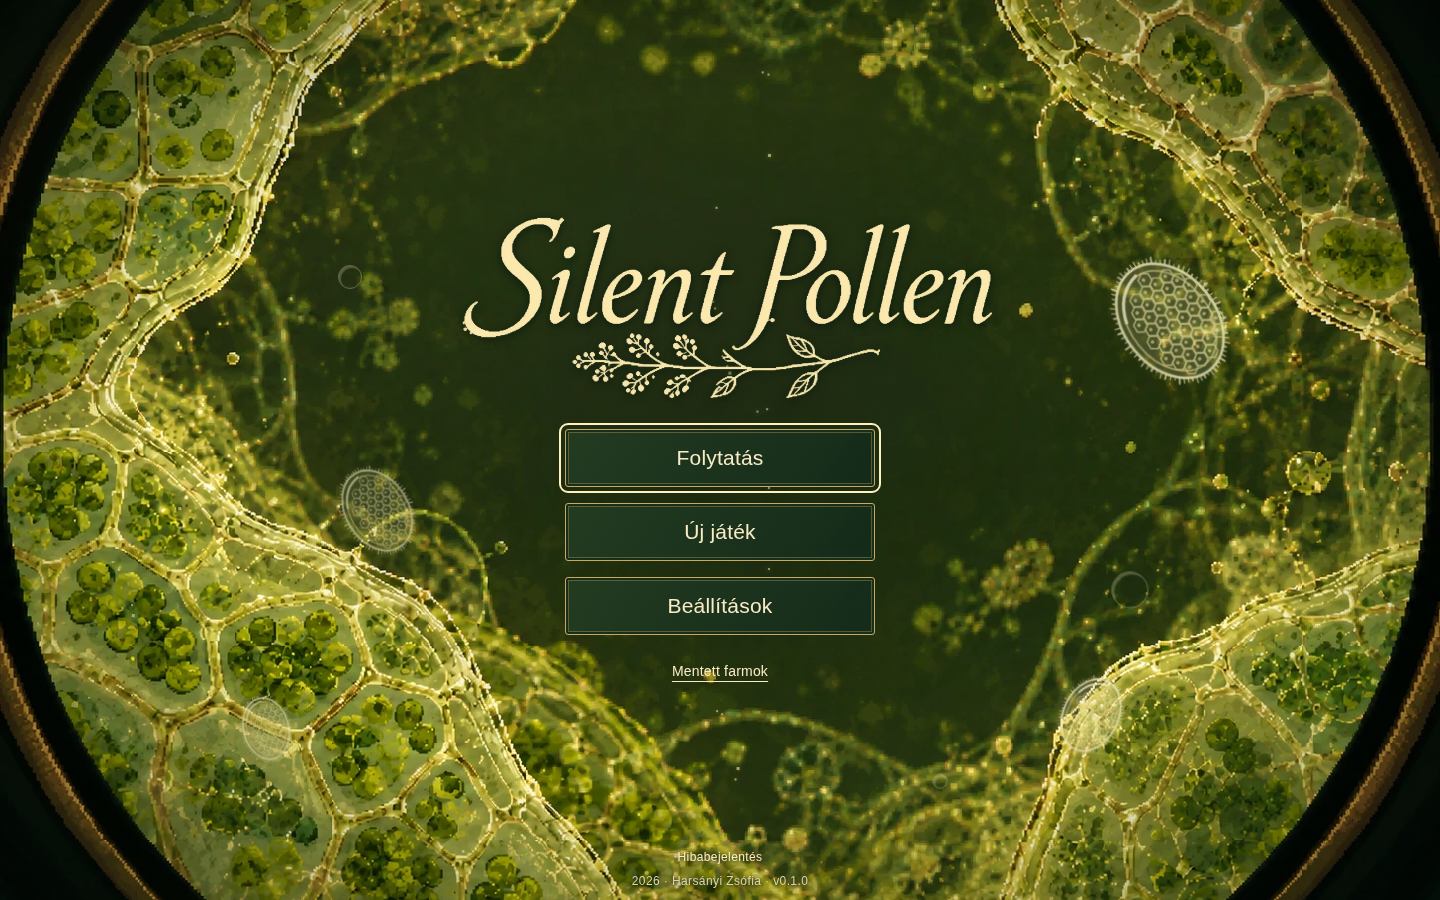
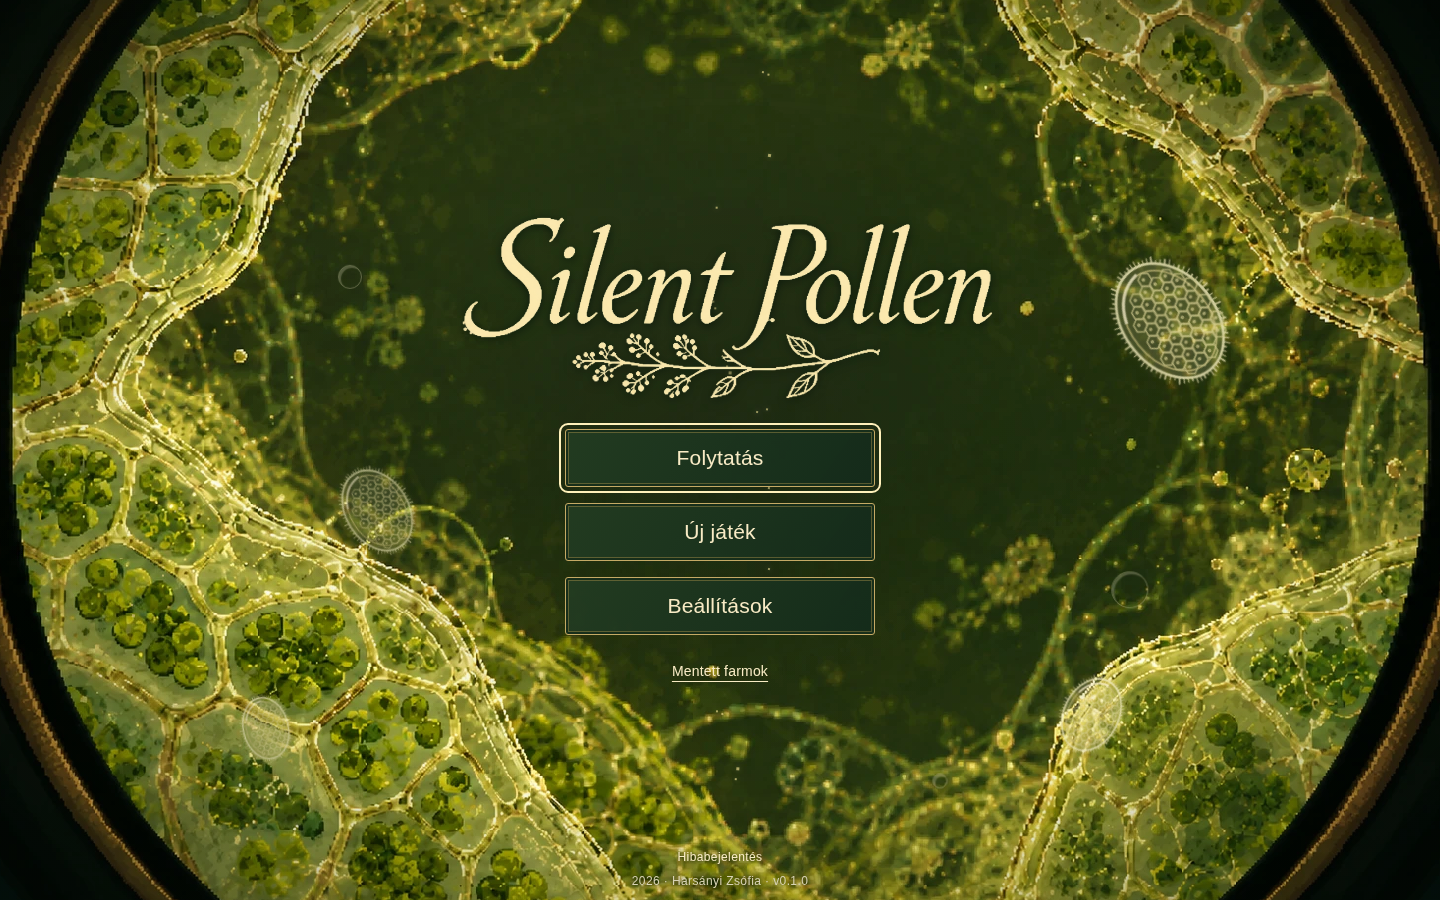
Refine bug report controls and keep menu lens at a fixed scale

diff --git a/src/menu.css b/src/menu.css
@@ -6,7 +6,7 @@
 #dialogue[data-menu]>form{position:relative;z-index:1;min-height:100%;width:min(640px,100%);margin:0 auto;display:flex;flex-direction:column;justify-content:center;align-items:stretch}
 #dialogue[data-menu] #dialogue-title,#dialogue[data-menu] #dialogue-label,#dialogue[data-menu] #dialogue-text:empty{display:none}
 #dialogue[data-menu] .menu-microscope{display:block;position:fixed;inset:0;z-index:0;pointer-events:none;overflow:hidden;background:#10200e}
-.menu-specimen{position:absolute;inset:-12px;background:url('./assets/microscope-menu.webp') center/cover no-repeat;image-rendering:pixelated;animation:cell-sway 26s ease-in-out infinite alternate}
+.menu-specimen{position:absolute;inset:-12px;background:url('./assets/microscope-menu.webp') center/cover no-repeat;image-rendering:pixelated;transform:none}
 .menu-microscope:after{content:'';position:absolute;inset:0;background:radial-gradient(ellipse at 50% 50%,#08180b26 0%,transparent 55%,#020b0570 100%)}
 .menu-lens-light{position:absolute;inset:0;background:radial-gradient(ellipse at 36% 25%,#e9d77d18,transparent 65%);animation:lens-light 17s ease-in-out infinite alternate}
 .menu-dust,.menu-bubble,.menu-pollen{position:absolute;display:block;animation:specimen-drift var(--duration) ease-in-out var(--delay) infinite alternate;will-change:transform;pointer-events:none}
@@ -66,7 +66,7 @@
 #dialogue[data-menu] .menu-credits{display:block;position:fixed;inset:auto 12px max(10px,env(safe-area-inset-bottom));text-align:center;font:12px/1.5 'Trebuchet MS','Segoe UI',sans-serif;letter-spacing:.4px;color:#d8d3b4;text-shadow:0 1px 4px #07180c;pointer-events:none;z-index:2}
 #menu-version:not([hidden]):before{content:' · '}
 @keyframes pollen-breath{from{transform:scale(.94);opacity:.7}to{transform:scale(1.065);opacity:1}}
-@keyframes cell-sway{from{transform:translate3d(-3px,3px,0) scale(1.008)}to{transform:translate3d(5px,-4px,0) scale(1.025)}}
+
 /* Pause and its settings are a window over the paused farm, never a title screen. */
 #dialogue[data-menu="pause"],#dialogue[data-menu="settings"][data-menu-origin="pause"]{inset:0!important;margin:auto!important;width:min(550px,calc(100vw - 32px))!important;height:fit-content;max-height:calc(100dvh - 76px)!important;padding:26px 30px!important;border:1px solid #bda46a!important;border-radius:5px;background:linear-gradient(145deg,#2b4332f7,#172e23fc)!important;box-shadow:0 16px 70px #07170e90}
 #dialogue[data-menu][data-menu-origin="pause"]::backdrop{background:#07170d80}
@@ -138,7 +138,7 @@
 
 #dialogue .bug-report-link{font-family:var(--control-font);color:var(--button-ink);text-decoration:none;}
 #dialogue .bug-report-link:focus-visible{outline:2px solid #fff1bb;outline-offset:4px}
-#dialogue .bug-report-link:hover{text-decoration:underline}
+#dialogue #start-bug-report:hover{text-decoration:underline}
 #dialogue[data-menu] #pause-bug-report{display:inline-flex;align-items:center;min-height:42px;padding:9px 15px;border:1px solid #b5a16470;border-radius:3px;background:var(--button-surface);font-size:13px;box-sizing:border-box}
 #start-bug-report{display:none}
-#dialogue[data-menu="start"] #start-bug-report{display:block;width:fit-content;margin:0 auto 6px;pointer-events:auto;font-size:12px}
+#dialogue[data-menu="start"] #start-bug-report{display:block;position:absolute;left:50%;bottom:calc(100% + 6px);transform:translateX(-50%);width:max-content;margin:0;pointer-events:auto;font-size:12px}

diff --git a/src/dialogue-theme.css b/src/dialogue-theme.css
@@ -4,8 +4,8 @@
 #app #dialogue:not([data-menu])::backdrop,#app #delete-farm-dialog::backdrop{background:#07170d80}
 #app #dialogue #dialogue-title,#app #delete-farm-title{font-family:var(--control-font);color:var(--window-title)}
 #app #dialogue:not([data-menu]) #dialogue-text{font-family:var(--reading-font)}
-#app #dialogue[open] button:not(:where(.item-slot,.chest-slot,[role="tab"],.delete-farm)),#app #delete-farm-dialog button{font-family:var(--control-font);color:var(--button-ink);background:var(--button-surface);border:1px solid var(--button-border);border-radius:3px;box-shadow:inset 0 0 0 2px #172e1a,inset 0 0 0 3px #ac944b70}
-#app #dialogue[open] button:not(:where(.item-slot,.chest-slot,[role="tab"],.delete-farm)):hover:not(:disabled),#app #delete-farm-dialog button:hover:not(:disabled){background:var(--button-hover);border-color:#e0c784}
+#app #dialogue[open] button:not(:where(.item-slot,.chest-slot,[role="tab"],.delete-farm)),#app #dialogue[open] .menu-utilities .bug-report-link,#app #delete-farm-dialog button{font-family:var(--control-font);color:var(--button-ink);background:var(--button-surface);border:1px solid var(--button-border);border-radius:3px;box-shadow:inset 0 0 0 2px #172e1a,inset 0 0 0 3px #ac944b70}
+#app #dialogue[open] button:not(:where(.item-slot,.chest-slot,[role="tab"],.delete-farm)):hover:not(:disabled),#app #dialogue[open] .menu-utilities .bug-report-link:hover,#app #delete-farm-dialog button:hover:not(:disabled){background:var(--button-hover);border-color:#e0c784}
 #app #dialogue[open] button:disabled,#app #delete-farm-dialog button:disabled{background:#555c54;color:#b7b8ad;border-color:#858b7b;box-shadow:none;opacity:.55;cursor:default}
 #app #dialogue[open] button:focus-visible,#app #delete-farm-dialog button:focus-visible{outline:2px solid #fff1bb;outline-offset:4px}
 #app #delete-farm-dialog #confirm-delete-farm{background:#743f35;border-color:#c68f76}

diff --git a/src/bug-report.ts b/src/bug-report.ts
@@ -1,9 +1,17 @@
 import {GAME_VERSION} from './version';
 
 export const BUILD_ID=__BUILD_ID__;
+export function browserDetails(ua:string,touchPoints=0,brave=false){
+ const browsers:[string,RegExp][]=[['Edge',/(?:Edg|EdgiOS|EdgA)\/([\d.]+)/],['Opera',/(?:OPR|OPiOS)\/([\d.]+)/],['Firefox',/(?:Firefox|FxiOS)\/([\d.]+)/],['Chrome',/(?:Chrome|CriOS)\/([\d.]+)/],['Safari',/Version\/([\d.]+).*Safari/]];
+ const found=browsers.map(([name,re])=>({name,version:ua.match(re)?.[1]})).find(b=>b.version);
+ const browser=brave?'Brave':found?`${found.name} ${found.version}`:'Ismeretlen';
+ const os=/Android/.test(ua)?'Android':/iPhone|iPad|iPod/.test(ua)||/Macintosh/.test(ua)&&touchPoints>1?'iOS / iPadOS':/Windows/.test(ua)?'Windows':/CrOS/.test(ua)?'ChromeOS':/Macintosh|Mac OS X/.test(ua)?'macOS':/Linux/.test(ua)?'Linux':'Ismeretlen';
+ return {browser,os};
+}
 export function bugReportUrl(){
+ const {browser,os}=browserDetails(navigator.userAgent,navigator.maxTouchPoints,'brave' in navigator);
  const url=new URL('https://github.com/FiloZsofia/farming-game/issues/new');
- url.searchParams.set('body',`**Mi történt?**\n\n\n**Hogyan lehet előidézni?**\n\n\n---\n**Technikai adatok**\nJátékverzió: ${GAME_VERSION}\nBuild: ${BUILD_ID}`);
+ url.searchParams.set('body',`**Mi történt?**\n\n\n**Hogyan lehet előidézni?**\n\n\n---\n**Technikai adatok**\nJátékverzió: ${GAME_VERSION}\nBuild: ${BUILD_ID}\nBöngésző: ${browser}\nOperációs rendszer: ${os}`);
  return url.href;
 }
 export function bugReportLink(id:string){

diff --git a/src/bug-report.test.ts b/src/bug-report.test.ts
@@ -1,0 +1,10 @@
+import {expect,it} from 'vitest';
+import {browserDetails} from './bug-report';
+it('distinguishes browsers sharing Chrome tokens and identifies their operating system',()=>{
+ expect(browserDetails('Mozilla/5.0 (Windows NT 10.0) Chrome/142.0.0.0 Safari/537.36 Edg/142.0.1')).toEqual({browser:'Edge 142.0.1',os:'Windows'});
+ expect(browserDetails('Mozilla/5.0 (Linux; Android 14) Chrome/142.0.0.0 Safari/537.36')).toEqual({browser:'Chrome 142.0.0.0',os:'Android'});
+ expect(browserDetails('Mozilla/5.0 (Macintosh) Version/18.1 Safari/605.1',5)).toEqual({browser:'Safari 18.1',os:'iOS / iPadOS'});
+ expect(browserDetails('Mozilla/5.0 (X11; Linux) Firefox/144.0')).toEqual({browser:'Firefox 144.0',os:'Linux'});
+ expect(browserDetails('Chrome/142.0.0.0',0,true).browser).toBe('Brave');
+ expect(browserDetails('Unknown')).toEqual({browser:'Ismeretlen',os:'Ismeretlen'});
+});

diff --git a/docs/jatekterv.md b/docs/jatekterv.md
@@ -872,5 +872,7 @@ Amikor Sam először közel sétál valóban sikertelen terméskötődést mutat
 
 ### Hibabejelentés — 2026. október 28.
 - GitHub Issues használatos. Menüben az Irányítás mellett, Főmenü alján visszafogott hivatkozásként jelenik meg a Hibabejelentés. Új böngészőlapon nyílik; nem küld automatikusan hibajegyet.
-- A Description elején előre szerepel a „Mi történt?” és „Hogyan lehet előidézni?” címsor, üres helyekkel a játékos válaszának. A technikai blokkja kizárólag játékverziót és rövid Git-buildazonosítót tartalmaz. A címet, leírást és képet a játékos adja meg a GitHubon. Farmadat, mentés, játékidő, eszközadat nem kerül a hivatkozásba.
+- A Description elején előre szerepel a „Mi történt?” és „Hogyan lehet előidézni?” címsor, üres helyekkel a játékos válaszának. A technikai blokk játékverziót, rövid Git-buildazonosítót, böngészőt és operációs rendszert tartalmaz. A címet, leírást és képet a játékos adja meg a GitHubon. Farmadat, mentés, játékidő nem kerül a hivatkozásba.
 - Buildazonosító automatikusan a fordításkor használt Git-commitból (CI-ben GITHUB_SHA), a játékverzió változatlanul 0.1.0. Verzióemelés nincs.
+
+- A Főmenü lencséjének háttérképe nem nagyítható animációval; a részecskék mozgása megmarad. A Hibabejelentés lábléchivatkozás nem változtathatja meg a háttér vagy a menü elrendezési méretét.

diff --git a/CHANGELOG.md b/CHANGELOG.md
@@ -4,7 +4,9 @@
 
 A játék verziója a felhasználó kérésére ismét **0.1.0**. A korábban idő előtt kiosztott 0.1.1–0.1.3 címkék megmaradnak a Git-előzményben; a módosításokat nem vontuk vissza.
 
-- Hibabejelentés a Menüben és a Főmenü alján: GitHub Issues új lapon, kizárólag játékverzióval és buildazonosítóval előre kitöltve.
+- A Főmenü háttérképének nagyító animációja megszűnt; a lencse mérete állandó, a lebegő részecskék mozgása megmarad.
+- A Menü Hibabejelentés hivatkozása a szomszédos gombok közös szegélyét és stílusát használja.
+- Hibabejelentés a Menüben és a Főmenü alján: GitHub Issues új lapon, játékverzióval, buildazonosítóval, böngészővel és operációs rendszerrel előre kitöltve.
 - Fejlesztői eszközök, kizárólag `?dev=1` hivatkozással, Tesztmódok alcímmel.
 - „A mikroszkóp megtalálása – jelenet” külön memóriában futó, újraindítható teszthelyzet, a rendes farm mentésének megőrzésével.
 - A jelenetgomb és az alatta lévő indulóhelyzet-leírás balra igazodik.

diff --git a/docs/ablakok-es-gombok.md b/docs/ablakok-es-gombok.md
@@ -17,3 +17,5 @@ Főmenü, Menü és Beállítások; Történet és Irányítás; Postaláda (a l
 ## Tárgyak áthelyezése
 
 A mozgatható tárgyak felvétele Bontóvassal, a `placed-items.ts` közös útvonalán történik. Külön Felveszem gomb nincs. E-vel megvizsgáljuk/használjuk, Bontóvassal rákoppintva visszavesszük a Készletbe. A teli tárolóládák és a dolgozó vagy át nem vett terméket tartalmazó gépek nem vehetők fel; sikertelen mentés vagy teli hátizsák esetén a tárgy a helyén marad.
+
+- A Menü gombjai között megjelenő navigációs hivatkozások (pl. Hibabejelentés) a közös gombstílust használják: azonos szegély, belső keret, háttér és hover. A Főmenü lábléchivatkozása továbbra is visszafogott szöveg.
